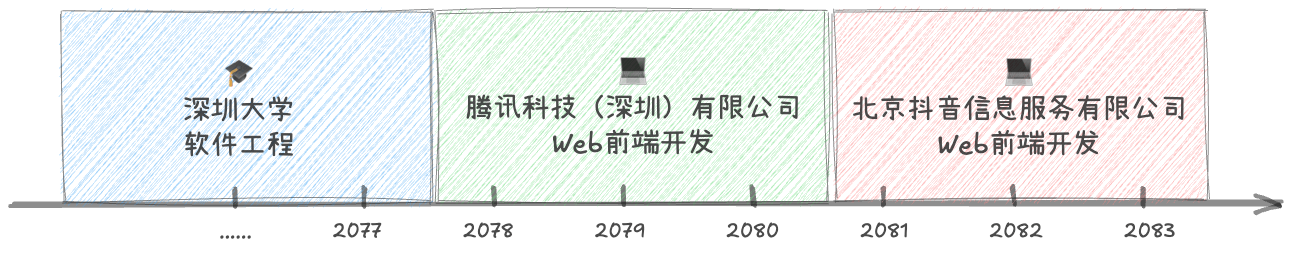
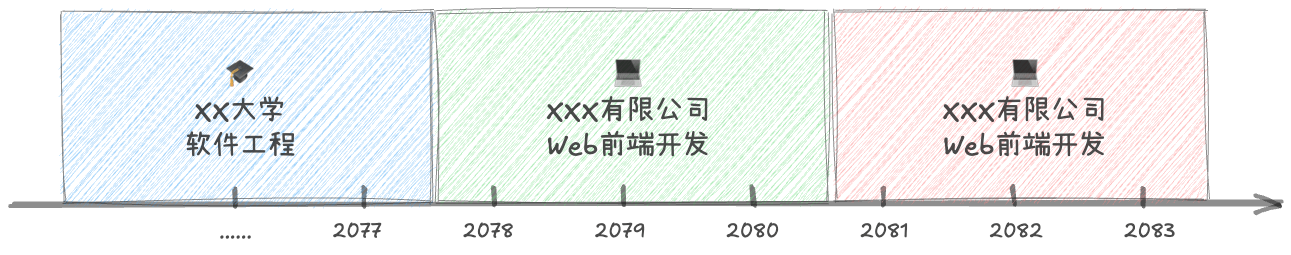
feat: default config

diff --git a/src/components/widgets/widgets-util.ts b/src/components/widgets/widgets-util.ts
@@ -106,7 +106,7 @@ export function createWidgetsNode(type: WidgetType): WidgetNode {
         id,
         data: {
           propsData: {
-            title: '腾讯科技（深圳）有限公司',
+            title: 'XXXX有限公司',
             dateRange: '2077/07 - 2080/07',
           },
           styleData: {
@@ -122,7 +122,7 @@ export function createWidgetsNode(type: WidgetType): WidgetNode {
         data: {
           propsData: {
             content:
-              '<h3><a target="_blank" rel="noopener noreferrer nofollow" href="https://pay.weixin.qq.com/">微信支付</a> - Web 前端开发</h3><ul><li><p>负责从需求分析到前端架构设计、功能开发及性能优化的全流程开发工作。</p></li><li><p>坚持与产品、设计、后端团队紧密协作，推动敏捷开发流程和 CI/CD 工具链的落地，确保高质量的交付。</p></li><li><p>通过深入研究用户体验和前端性能，成功优化支付流程页面，提升了用户转化率和支付成功率。</p></li></ul>',
+              '<h3>XXXX项目 - Web 前端开发</h3><ul><li><p>负责从需求分析到前端架构设计、功能开发及性能优化的全流程开发工作。</p></li><li><p>坚持与产品、设计、后端团队紧密协作，推动敏捷开发流程和 CI/CD 工具链的落地，确保高质量的交付。</p></li><li><p>通过深入研究用户体验和前端性能，成功优化支付流程页面，提升了用户转化率和支付成功率。</p></li></ul>',
           },
           styleData: {
             marginTop: 0,
@@ -158,4 +158,91 @@ export const createLinkItem: () => LinkItemData = () => {
     content: 'github.com',
     icon: 'RiLinksLine',
   }
+}
+
+export const createDefaultWidgets: () => WidgetNode[] = () => {
+  return [
+    {
+      type: 'BasicInfo',
+      id: 'm5nh7g2t_c08t',
+      data: {
+        propsData: {
+          avatarUrl: '/avatar.jpg',
+          avatarSize: 100,
+          avatarRound: true,
+          name: '炭治郎',
+          jobTitle: '前端开发工程师',
+          linksGroup: [
+            [
+              { href: '', content: '2050/01', icon: 'MynauiCake' },
+              { href: '', content: '15123456789', icon: 'MynauiTelephoneCall' },
+            ],
+            [
+              { href: 'https://github.com/', content: 'github.com', icon: 'LogosGithubIcon' },
+              {
+                href: 'mailto:tanjiro@gmail.com',
+                content: 'tanjiro@gmail.com',
+                icon: 'LogosGoogleGmail',
+              },
+            ],
+            [],
+          ],
+        },
+        styleData: { marginTop: 24, marginBottom: 24 },
+      },
+    },
+    {
+      type: 'TitleSection',
+      id: 'm5nhbbzu_29xe',
+      data: { propsData: { title: ' 专业技能' }, styleData: { marginTop: 8, marginBottom: 16 } },
+    },
+    {
+      type: 'TextContent',
+      id: 'm5nhe7a6_uswu',
+      data: {
+        propsData: {
+          content:
+            '<ul><li><p>熟练掌握 <code>JavaScript</code>、<code>TypeScript</code> 语言；</p></li><li><p>熟练使用 <code>Vue</code>、<code>React</code> 开发前端应用，并掌握其基本原理；</p></li><li><p>熟练使用 <code>Vite</code>、<code>Webpack</code> 等打包工具构建应用；</p></li><li><p>熟练使用 <code>NodeJS</code>、<code>MySQL</code>、<code>Redis</code> 等技术开发后端应用；</p></li><li><p>熟悉常见算法和设计模式，有良好的编码习惯。</p></li></ul>',
+        },
+        styleData: { marginTop: 0, marginBottom: 8 },
+      },
+    },
+    {
+      type: 'TitleSection',
+      id: 'm5nh7g2t_m1ad',
+      data: { propsData: { title: '工作经历' }, styleData: { marginTop: 8, marginBottom: 16 } },
+    },
+    {
+      type: 'ExperienceTime',
+      id: 'm5nh7g2t_xcji',
+      data: {
+        propsData: { title: 'XXXX有限公司', dateRange: '2077/07 - 2080/07' },
+        styleData: { marginTop: 0, marginBottom: 8 },
+      },
+    },
+    {
+      type: 'TextContent',
+      id: 'm5nh7g2t_xhk3',
+      data: {
+        propsData: {
+          content:
+            '<h3>XXXX项目 - Web 前端开发</h3><ul><li><p>负责从需求分析到前端架构设计、功能开发及性能优化的全流程开发工作。</p></li><li><p>坚持与产品、设计、后端团队紧密协作，推动敏捷开发流程和 CI/CD 工具链的落地，确保高质量的交付。</p></li><li><p>通过深入研究用户体验和前端性能，成功优化支付流程页面，提升了用户转化率和支付成功率。</p></li></ul>',
+        },
+        styleData: { marginTop: 0, marginBottom: 8 },
+      },
+    },
+    {
+      type: 'TitleSection',
+      id: 'm5nhamir_1miv',
+      data: { propsData: { title: '教育经历' }, styleData: { marginTop: 8, marginBottom: 16 } },
+    },
+    {
+      type: 'ExperienceTime',
+      id: 'm5nhboq6_hees',
+      data: {
+        propsData: { title: 'XXXX大学 - 软件工程（学士）', dateRange: '2073/07 - 2077/07' },
+        styleData: { marginTop: 0, marginBottom: 8 },
+      },
+    },
+  ]
 }

diff --git a/src/store/widgets-store.ts b/src/store/widgets-store.ts
@@ -1,6 +1,6 @@
 import { widgetsSchema } from '@/components/widgets/widgets-schema.ts'
 import type { WidgetNode } from '@/components/widgets/widgets-type.d.ts'
-import { createWidgetsNode } from '@/components/widgets/widgets-util.ts'
+import { createDefaultWidgets } from '@/components/widgets/widgets-util.ts'
 import { storage } from '@/lib/utils.ts'
 import { create } from 'zustand'
 
@@ -28,7 +28,7 @@ const useWidgetsStore = create<PageState>()((set, get) => {
     }
   } else {
     // initial data
-    widgets.push(createWidgetsNode('BasicInfo'))
+    widgets = createDefaultWidgets()
   }
   const selectedId = widgets.length ? widgets[0].id : null
 
